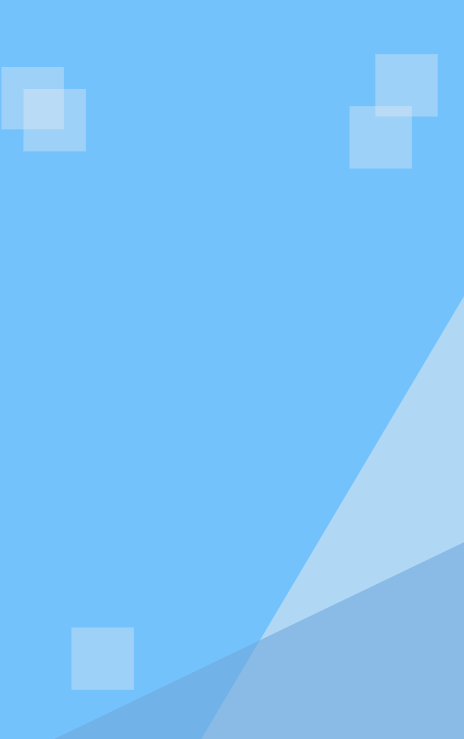
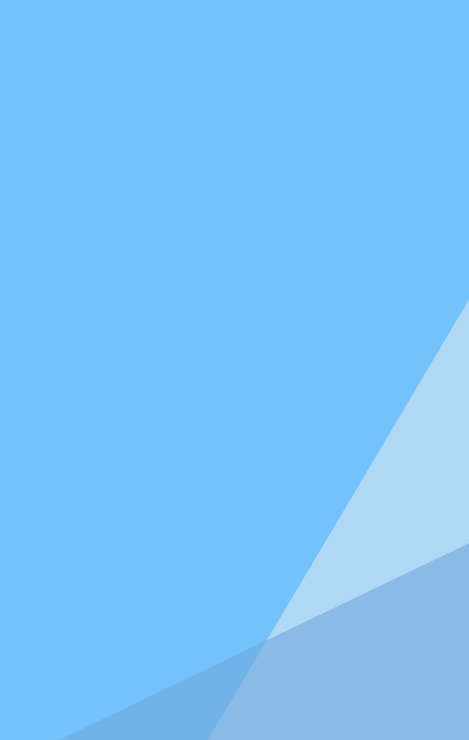
bg add

diff --git a/front/App.js b/front/App.js
@@ -1,10 +1,12 @@
 import { StatusBar } from 'expo-status-bar';
 import { useState } from 'react';
-import { Button, Text, View } from 'react-native';
+import { Button, Text, View,ImageBackground } from 'react-native';
 import Select from './src/pages/Select/Select';
 import Top from './src/pages/Top/Top';
 import Timer from './src/pages/Timer/Timer';
 import Feedback from './src/pages/Feedback/Feedback';
+
+import bgImg from "./image/bg.png"
 
 // 警告の削除
 import { LogBox } from "react-native";
@@ -18,6 +20,12 @@ import styles from './styles/App.style';
 export default function App() {
   const [page, setPage] = useState("top")
   return (
+    <ImageBackground 
+      style={{
+        justifyContent: "center",
+        flex:1
+      }}
+      source={bgImg} resizeMode="cover">
     <View style={styles.container}>
       {
         page==="top" 
@@ -47,5 +55,6 @@ export default function App() {
       }
       {/* <StatusBar style="auto" /> */}
     </View>
+    </ImageBackground>
   );
 }

diff --git a/front/styles/App.style.js b/front/styles/App.style.js
@@ -3,7 +3,7 @@ import { StyleSheet } from "react-native";
 const styles = StyleSheet.create({
     container: {
       flex: 1,
-      backgroundColor: '#73C2FB',
+      // backgroundColor: '#73C2FB',
       alignItems: 'center',
       justifyContent: 'center',
     },
